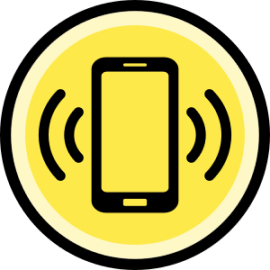
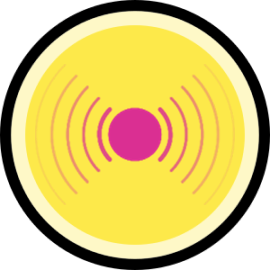
super visher

Changed region(s): [[0.1185, 0.2074, 0.8593, 0.8], [0.2667, 0.2667, 0.2963, 0.2963]]

diff --git a/js/mytoad/visher.js b/js/mytoad/visher.js
@@ -24,7 +24,8 @@ visher.prototype = {
         wiper.x = game.world.centerX;
         wiper.anchor.set(.5, 1);
 
-        debug_text_visher = game.add.text(250, 850, "Pan device right and left!", {font: '32px', fill: 'white'});
+        debug_text_visher = game.add.text(250, 850, 
+    	"Pan device right and left!\nTap to create ripples", {font: '36px', fill: 'white', align: 'center'});
         debug_text_visher.anchor.set(.5, .5);
         debug_text_visher.x = game.world.centerX;
 
@@ -32,6 +33,16 @@ visher.prototype = {
     },
     
     update: function(){
+        if (game.input.activePointer.isDown){
+            duration = game.input.activePointer.duration;
+
+            yAxis = game.input.activePointer.y;
+            xAxis = game.input.activePointer.x;
+            
+            drawRipple(xAxis, yAxis);
+        }
+			
+			
     	if (wiper.angle < -GO_ANGLE && !HU_STATE){ // converToHex(game.stage.backgroundColor) != converToHex(colors[9]
 			haSfx.play();
 			flashVisher();	
@@ -50,15 +61,35 @@ visher.prototype = {
     }
 };
 
+function drawRipple(_xAxis, _yAxis){
+    var ripplesGroup = game.add.group();
+	    
+    ripple = ripplesGroup.create(_xAxis, _yAxis, 'light_web');
+    ripple.anchor.setTo(0.5);
+
+	game.physics.enable(ripple, Phaser.Physics.ARCADE);
+	ripple.body.gravity.y = duration / 12;
+
+    game.add.tween(ripple.scale).to({x: duration / 500, y: duration / 500}, Math.cos(duration) * 16000, "Cubic", true);
+    game.add.tween(ripple).to({alpha: 0}, Math.cos(duration) * 16000, "Cubic", true).onComplete.add(function(ripple){   
+        ripple.destroy();  
+    },this);
+}
+
 function readVisherAccel(event){
 	if (game.state.getCurrentState().key == 'Visher'){
 		var AccelX = event.accelerationIncludingGravity.x;
 		
 		wiper.angle = AccelX * 3;
+	
 		bgHot.alpha = (10 - AccelX * 0.36) / 10;
-		bgCold.alpha = -(10 - AccelX * 0.36) / 10;
+		bgCold.alpha = 1 - bgHot.alpha;
 		
-		//debug_text_visher.text = roundIt(AccelX);
+		try{
+		    ripplesGroup.forEach(function(item) {
+				item.body.gravity.x = AccelX * 18;
+		    });
+		}catch(e){}
 	}
 }
 

diff --git a/js/mytoad/visualizer.js b/js/mytoad/visualizer.js
@@ -86,11 +86,11 @@ function webaudio_tooling_obj(){
 }
 
 function ascendLogos(StartX, startY){
-	logoAscend = game.add.sprite(StartX + 100, HEIGHT - startY, 'logoSprite');
+	logoAscend = game.add.sprite(StartX + 100, HEIGHT - startY, 'light_web');
 	logoAscend.scale.set(averageValue / 9, averageValue / 9);
 	logoAscend.tint = 0xffffff * (largestFreq / 100);
-	logoAscend.alpha = 0.65;
-
-    tween = game.add.tween(logoAscend).to( { alpha: 0 }, 350, "Linear", true);
+	
+	game.add.tween(logoAscend).to( { y: -100 }, 3600, "Linear", true);
+    tween = game.add.tween(logoAscend).to( { alpha: 0 }, 1200, "Linear", true);
     tween.onComplete.add(function(){ logoAscend.destroy; }, this);
 }

diff --git a/js/mytoad/shaker.js b/js/mytoad/shaker.js
@@ -28,6 +28,8 @@ shaker.prototype = {
         logo.y = game.world.centerY - 100;
 
         debug_text_shaker = game.add.text(250, 850, "Shake it!", {font: '32px', fill: 'black'});
+        debug_text_shaker.anchor.set(.5, .5);
+        debug_text_shaker.x = game.world.centerX;
 
 		try{window.addEventListener('deviceorientation', function(){
 			angle = event.gamma;
@@ -69,7 +71,7 @@ function readAcc(event){
 			}
 		}
 
-		debug_text_shaker.text = roundIt(Math.abs(lastAccel - aveAccel));
+		//debug_text_shaker.text = roundIt(Math.abs(lastAccel - aveAccel));
 		
 		lastAngle = angle;
 		lastAccel = aveAccel;

diff --git a/js/mytoad/preloader.js b/js/mytoad/preloader.js
@@ -19,6 +19,7 @@ preloader.prototype = {
         game.load.image('logoSprite', 'assets/mytoad/images/logoSprite.png');
         game.load.image('logo', 'assets/mytoad/images/logo.png');
         game.load.image('bigLogo', 'assets/mytoad/images/bigLogo.png');
+        game.load.image('light_web', 'assets/mytoad/images/light_web.png');
         
         game.load.image('blue_sliderDown', 'assets/mytoad/images/blue_sliderDown.png');
         game.load.image('blue_sliderUp', 'assets/mytoad/images/blue_sliderUp.png');
